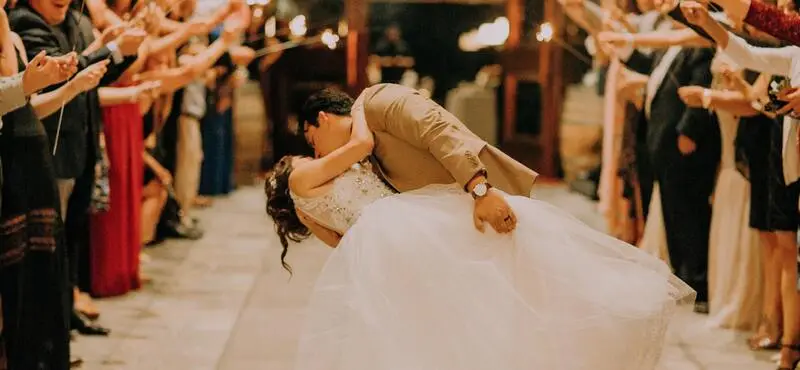
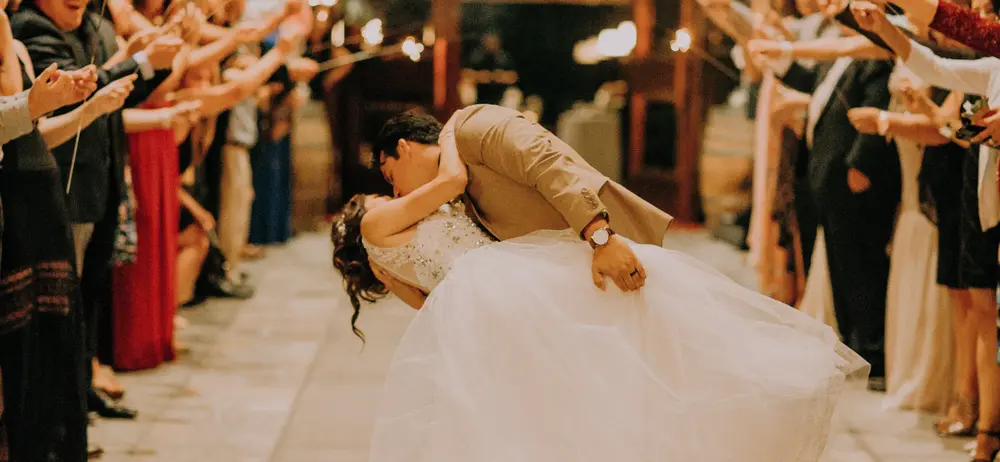
small caroussel

Changed region(s): [[0.5938, 0.5054, 0.625, 0.5351]]

diff --git a/index.html b/index.html
@@ -62,15 +62,15 @@
 				</div>
 				<div class="carousel-inner">
 					<div class="carousel-item active">
-						<img src="./assets/images/slider/ryoji-iwata.webp" loading="lazy" class="d-block w-100"
+						<img src="./assets/images/slider/ryoji-iwata-small.webp" loading="lazy" class="d-block w-100"
 							alt="businessman de dos traversant un passage piétons">
 					</div>
 					<div class="carousel-item">
-						<img src="./assets/images/slider/nicholas-green.webp" loading="lazy" class="d-block w-100"
+						<img src="./assets/images/slider/nicholas-green-small.webp" loading="lazy" class="d-block w-100"
 							alt="foule les bras levés">
 					</div>
 					<div class="carousel-item">
-						<img src="./assets/images/slider/edward-cisneros.webp" loading="lazy" class="d-block w-100"
+						<img src="./assets/images/slider/edward-cisneros-small.webp" loading="lazy" class="d-block w-100"
 							alt="mariés dansant a leur mariage et s'embrassant">
 					</div>
 				</div>
